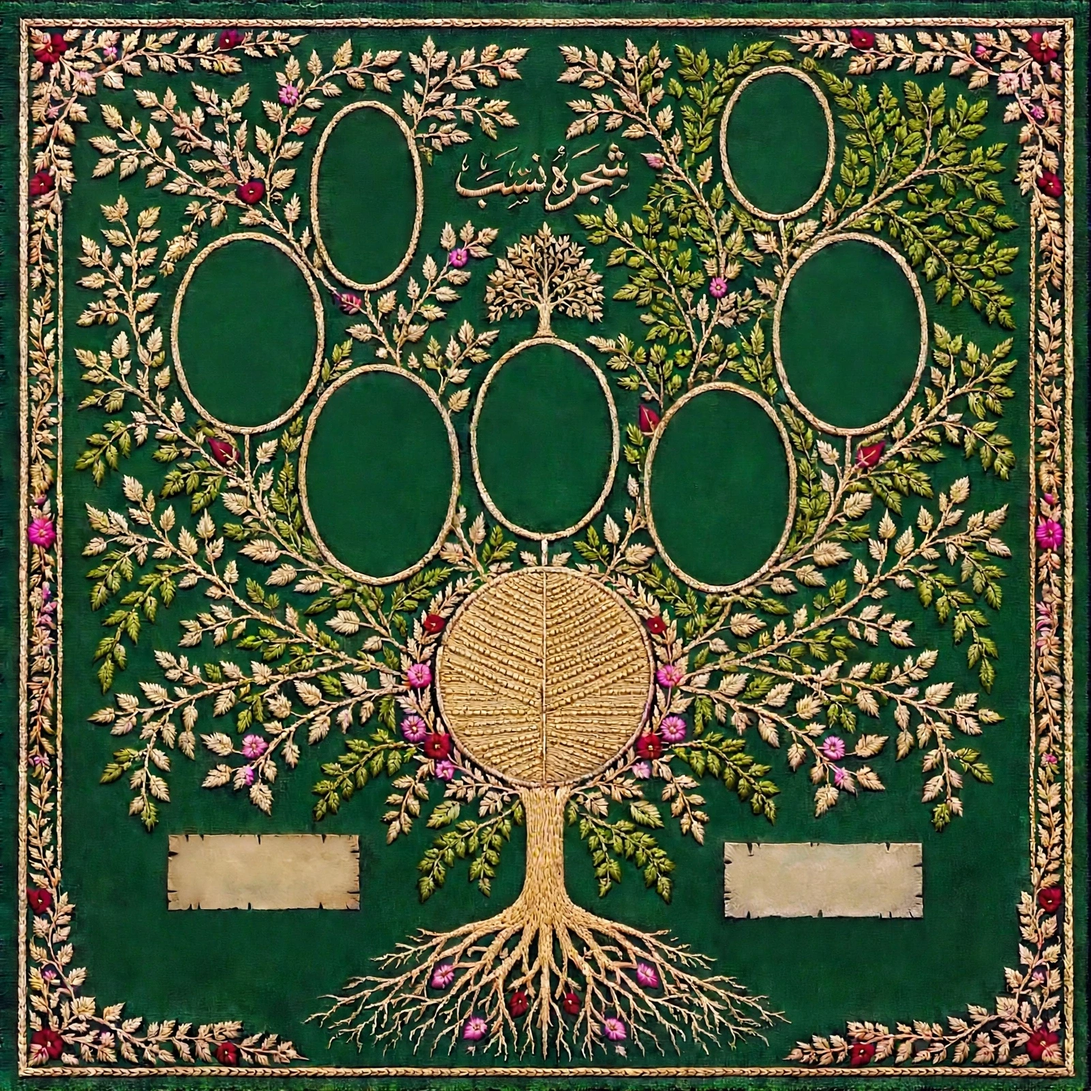
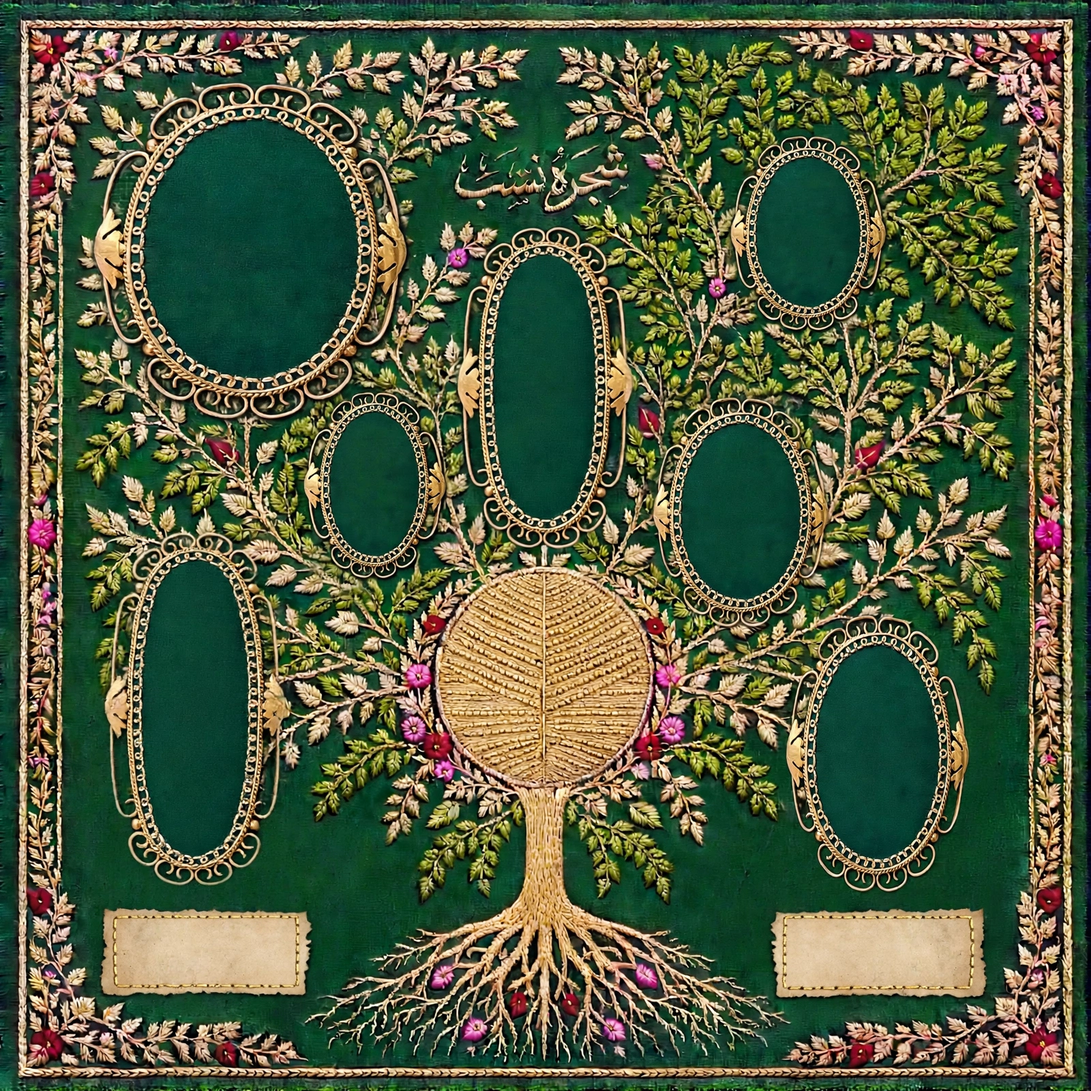
Add files via upload

diff --git a/staging/index.html b/staging/index.html
@@ -1142,10 +1142,10 @@ var DESC_LINES = { en:["Descendant of Mustafa Kamal","Descendant of the Khilji K
 var PLAQUE_UR = { titles:["\u0645\u0635\u0637\u0641\u06cc\u0670 \u06a9\u0645\u0627\u0644","\u062e\u0644\u062c\u06cc \u062e\u0627\u0646\u062f\u0627\u0646"],
   bodies:["\u0627\u06cc\u06a9 \u0628\u062d\u0631\u06cc \u062c\u06c1\u0627\u0632 \u06a9\u06d2 \u06a9\u067e\u062a\u0627\u0646\u060c \u062c\u0648 \u0645\u0633\u0644\u0645\u0627\u0646 \u062a\u0627\u062c\u0631\u0648\u06ba \u0627\u0648\u0631 \u0633\u067e\u0627\u06c1\u06cc\u0648\u06ba \u06a9\u0648 \u0639\u0631\u0628 \u0633\u06d2 \u0628\u0631\u0635\u063a\u06cc\u0631 \u0644\u0627\u0626\u06d2\u06d4 \u0627\u0646 \u0633\u06d2 \u0627\u0642\u0628\u0627\u0644 \u0627\u062d\u0645\u062f \u062a\u06a9 \u0633\u0627\u062a \u0646\u0633\u0644\u06cc\u06ba \u0622\u062a\u06cc \u06c1\u06cc\u06ba\u06d4",
           "\u0648\u06c1 \u062e\u0627\u0646\u062f\u0627\u0646 \u062c\u0633 \u0646\u06d2 \u0628\u0631\u0635\u063a\u06cc\u0631 \u067e\u0631 \u062a\u0642\u0631\u06cc\u0628\u0627\u064b \u0633\u0648 \u0633\u0627\u0644 \u062d\u06a9\u0648\u0645\u062a \u06a9\u06cc: 1204 \u0633\u06d2 \u0628\u0646\u06af\u0627\u0644\u060c \u067e\u06be\u0631 \u062f\u06c1\u0644\u06cc \u0633\u0644\u0637\u0646\u062a\u060c 1290 \u0633\u06d2 1320 \u062a\u06a9\u06d4"] };
-var ART_POS = { saqib:{x:33.9,y:18.2,w:11.2,h:16.2}, shoaib:{x:71.7,y:13.3,w:8.9,h:12.7},
-  ahmed1:{x:22.7,y:30.5,w:12.9,h:15.1}, ahmed2:{x:22.7,y:30.5,w:12.9,h:15.1},
-  abeer:{x:77.7,y:30.3,w:12.8,h:15.5}, sumera:{x:34.7,y:43.5,w:13.5,h:16.2},
-  sohail:{x:50,y:40.2,w:12.6,h:15.1}, humera:{x:65.9,y:44.3,w:12.9,h:16.2} };
+var ART_POS = { saqib:{x:22.8,y:22.3,w:20,h:22}, shoaib:{x:75,y:20.9,w:9.5,h:12},
+  ahmed1:{x:34.4,y:44.1,w:9,h:12.5}, ahmed2:{x:34.4,y:44.1,w:9,h:12.5},
+  abeer:{x:67.9,y:46.7,w:11.5,h:15}, sumera:{x:17.6,y:64.8,w:11,h:26},
+  sohail:{x:49.8,y:35.5,w:10.5,h:21}, humera:{x:80.3,y:69,w:12,h:17} };
 var ART_EXTRA = [ {x:11,y:13,w:11,h:17}, {x:50,y:9.5,w:11,h:16}, {x:90,y:12,w:11,h:17}, {x:11,y:60,w:11,h:17} ];
 function renderPreview(){
   var be=document.getElementById("lang-en"), bu=document.getElementById("lang-ur");
@@ -1178,14 +1178,14 @@ function renderPreview(){
     return '<div class="art-oval" style="'+style+'"'+(tapestryLang==="ur"?' lang="ur" dir="rtl"':'')+'>'+
       '<div class="cpl">'+coupleHTML+'</div>'+(kidsHTML?'<div style="height:4px"></div>'+kidsHTML:"")+'</div>'+branchHTML;
   }).join("");
-  var centre = '<div class="art-centre" style="left:49.8%;top:62.3%;width:19%;height:20.3%">'+
+  var centre = '<div class="art-centre" style="left:49.8%;top:61.9%;width:19.5%;height:20%">'+
     '<div class="chalf"'+(tapestryLang==="ur"?' lang="ur" dir="rtl"':'')+'><div class="cname">'+esc(langName(cpl[0],false))+'</div></div>'+
     '<div class="chalf"'+(tapestryLang==="ur"?' lang="ur" dir="rtl"':'')+'><div class="cname">'+esc(langName(cpl[1],false))+'</div></div></div>';
   var pTitles = (tapestryLang==="ur") ? PLAQUE_UR.titles : ["Mustafa Kamal","The Khilji Khandan"];
   var pBodies = (tapestryLang==="ur") ? PLAQUE_UR.bodies :
     [ BLURB_MUSTAFA.split(" \u2014 ")[1] || BLURB_MUSTAFA, BLURB_KHILJI.split(" \u2014 ")[1] || BLURB_KHILJI ];
-  var plaques = '<div class="art-plaque" style="left:24.2%;top:80.4%;width:15.6%;height:8.8%"'+(tapestryLang==="ur"?' lang="ur" dir="rtl"':'')+'><div class="ptitle">'+esc(pTitles[0])+'</div><div class="pbody">'+esc(pBodies[0])+'</div></div>'+
-    '<div class="art-plaque" style="left:75.4%;top:80.7%;width:16.2%;height:8.8%"'+(tapestryLang==="ur"?' lang="ur" dir="rtl"':'')+'><div class="ptitle">'+esc(pTitles[1])+'</div><div class="pbody">'+esc(pBodies[1])+'</div></div>';
+  var plaques = '<div class="art-plaque" style="left:18.8%;top:87.1%;width:19.5%;height:8%"'+(tapestryLang==="ur"?' lang="ur" dir="rtl"':'')+'><div class="ptitle">'+esc(pTitles[0])+'</div><div class="pbody">'+esc(pBodies[0])+'</div></div>'+
+    '<div class="art-plaque" style="left:80.5%;top:87.2%;width:19.5%;height:8%"'+(tapestryLang==="ur"?' lang="ur" dir="rtl"':'')+'><div class="ptitle">'+esc(pTitles[1])+'</div><div class="pbody">'+esc(pBodies[1])+'</div></div>';
   document.getElementById("tapestry-frame").innerHTML =
     '<div class="tapestry-wrap ts-'+tapestryTextSize+'" style="--tfs:'+(TFS_STEPS[tapestryTextSize-1]||1)+'"><img src="blank-tapestry.webp" alt="Shajra-e-Nasb tapestry">'+overlays+centre+plaques+'</div>';
   return;
